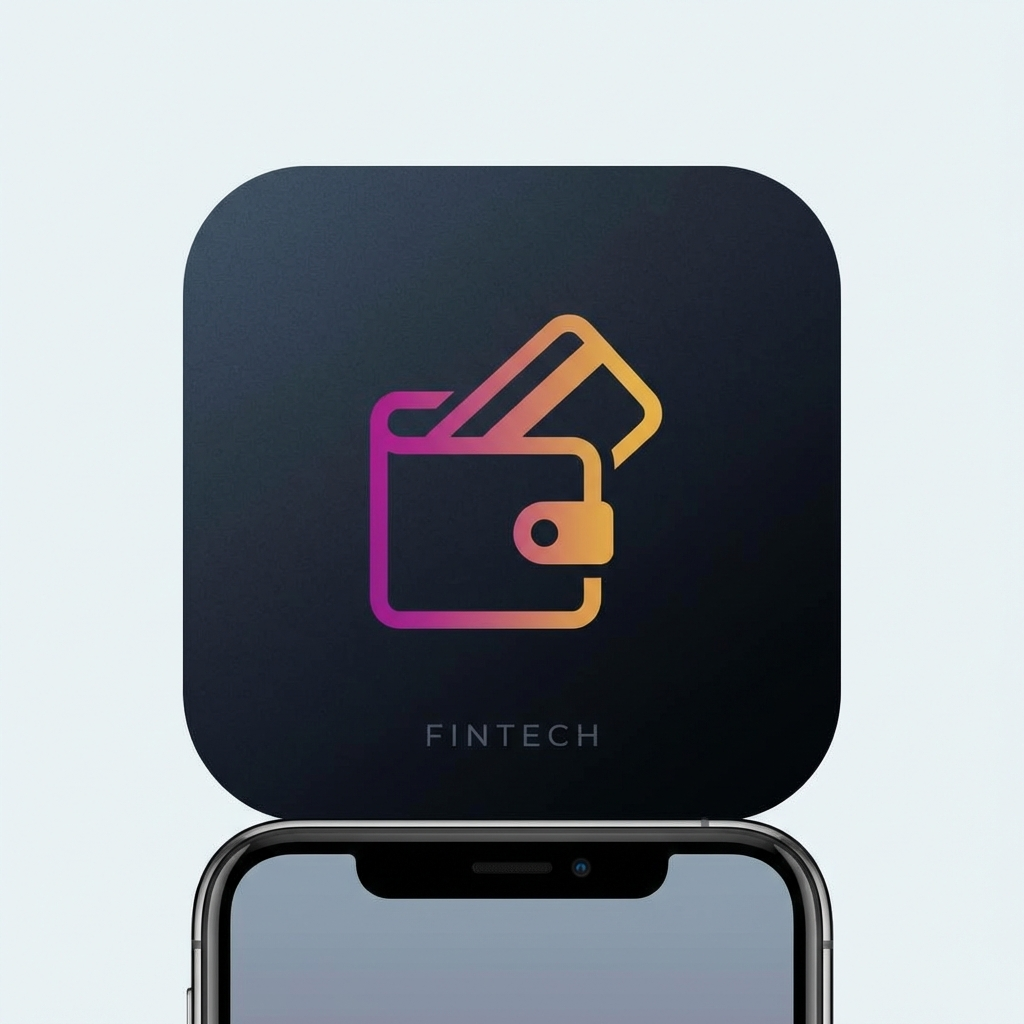
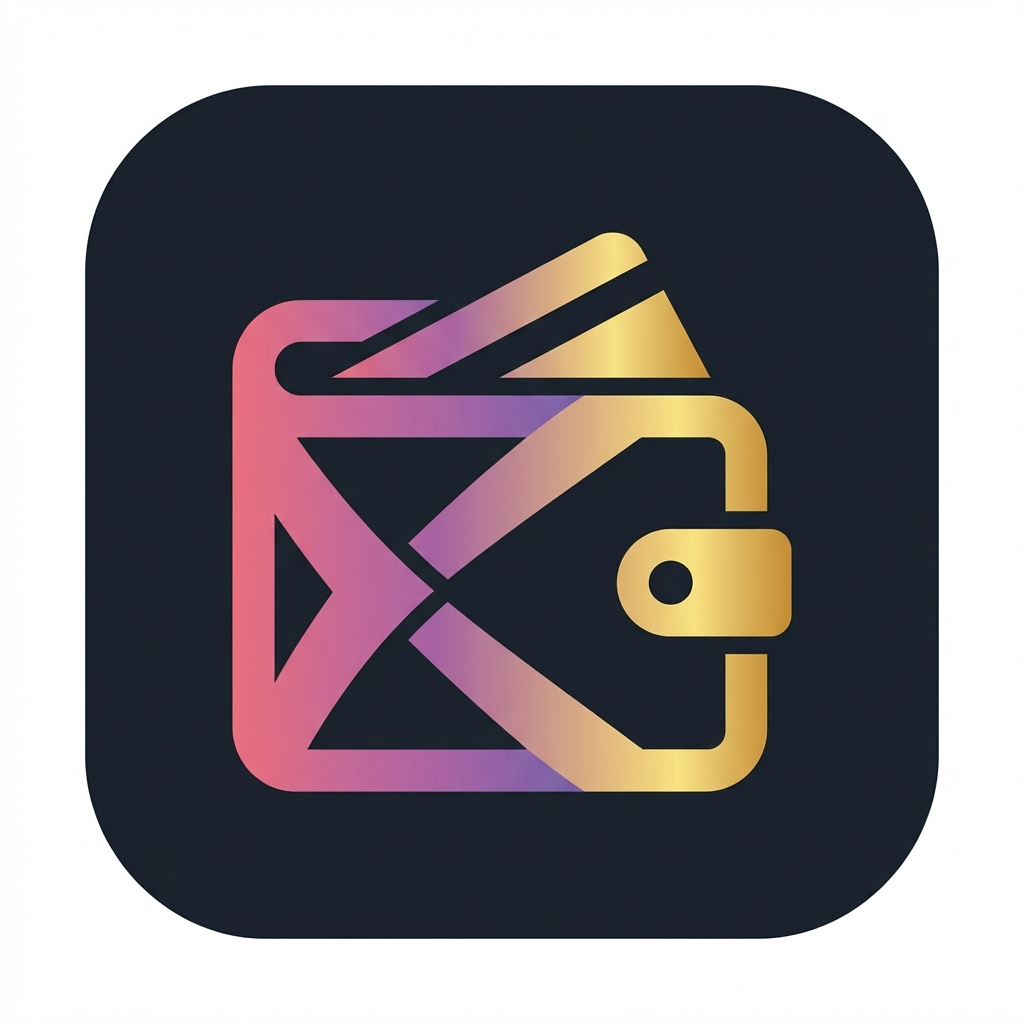
Implement Subscription Manager
- Created subscriptions.html and subscriptions.js
- Added dashboard link to Subscriptions
- Updated app icons to single style (PWA)

diff --git a/subscriptions.js b/subscriptions.js
@@ -1,0 +1,169 @@
+// Subscription Manager Logic
+
+let subscriptions = [];
+const DEFAULT_SUBS = [
+    { id: 1, name: 'Netflix', cost: 649, cycle: 'monthly', date: 5, category: 'Entertainment', icon: 'fa-film', color: '#E50914' },
+    { id: 2, name: 'Spotify', cost: 119, cycle: 'monthly', date: 21, category: 'Entertainment', icon: 'fa-music', color: '#1DB954' },
+    { id: 3, name: 'Amazon Prime', cost: 1499, cycle: 'yearly', date: 15, category: 'Entertainment', icon: 'fa-box', color: '#00A8E1' }
+];
+
+// Load Data
+function loadSubscriptions() {
+    const saved = localStorage.getItem('mySubscriptions');
+    if (saved) {
+        subscriptions = JSON.parse(saved);
+    } else {
+        subscriptions = DEFAULT_SUBS;
+        saveSubscriptions();
+    }
+    renderSubscriptions();
+    updateStats();
+}
+
+// Save Data
+function saveSubscriptions() {
+    localStorage.setItem('mySubscriptions', JSON.stringify(subscriptions));
+    updateStats();
+}
+
+// Format Currency
+const formatMoney = (amount) => {
+    return new Intl.NumberFormat('en-IN', {
+        style: 'currency',
+        currency: 'INR',
+        maximumFractionDigits: 0
+    }).format(amount);
+};
+
+// Update Stats
+function updateStats() {
+    let monthlyTotal = 0;
+    let yearlyTotal = 0;
+
+    subscriptions.forEach(sub => {
+        if (sub.cycle === 'monthly') {
+            monthlyTotal += sub.cost;
+            yearlyTotal += sub.cost * 12;
+        } else {
+            yearlyTotal += sub.cost;
+            monthlyTotal += sub.cost / 12;
+        }
+    });
+
+    document.getElementById('total-monthly').textContent = formatMoney(monthlyTotal);
+    document.getElementById('total-yearly').textContent = formatMoney(yearlyTotal);
+}
+
+// Render List
+function renderSubscriptions() {
+    const container = document.getElementById('subscription-list');
+    container.innerHTML = '';
+
+    // Sort by due date
+    subscriptions.sort((a, b) => a.date - b.date);
+
+    subscriptions.forEach(sub => {
+        const item = document.createElement('div');
+        item.className = 'transaction-item';
+
+        let icon = sub.icon || 'fa-receipt';
+        // Auto-icon logic
+        if (sub.name.toLowerCase().includes('netflix')) icon = 'fa-film';
+        else if (sub.name.toLowerCase().includes('spotify')) icon = 'fa-music';
+        else if (sub.name.toLowerCase().includes('prime') || sub.name.toLowerCase().includes('amazon')) icon = 'fa-box';
+        else if (sub.name.toLowerCase().includes('youtube')) icon = 'fa-play';
+        else if (sub.name.toLowerCase().includes('google')) icon = 'fa-google';
+        else if (sub.name.toLowerCase().includes('apple')) icon = 'fa-apple';
+        else if (sub.name.toLowerCase().includes('chatgpt') || sub.name.toLowerCase().includes('ai')) icon = 'fa-robot';
+
+        item.innerHTML = `
+            <div class="transaction-icon" style="background: rgba(255, 255, 255, 0.05); color: ${sub.color || 'var(--text-primary)'}">
+                <i class="fas ${icon}"></i>
+            </div>
+            <div class="transaction-info">
+                <div class="transaction-title">${sub.name}</div>
+                <div class="transaction-date">${sub.cycle === 'monthly' ? 'Monthly' : 'Yearly'} • Due on ${sub.date}</div>
+            </div>
+            <div class="transaction-amount">
+                ${formatMoney(sub.cost)}
+            </div>
+            <button class="delete-btn" onclick="deleteSubscription(${sub.id})" style="margin-left: 1rem; background: none; border: none; color: var(--text-secondary);"><i class="fas fa-trash"></i></button>
+        `;
+        container.appendChild(item);
+    });
+}
+
+// Add Subscription
+function addSubscription() {
+    const name = document.getElementById('sub-name').value;
+    const cost = parseFloat(document.getElementById('sub-cost').value);
+    const date = parseInt(document.getElementById('sub-date').value);
+    const category = document.getElementById('sub-category').value;
+    const cycleBtn = document.querySelector('.chip.active');
+    const cycle = cycleBtn ? cycleBtn.dataset.value : 'monthly';
+
+    if (!name || isNaN(cost) || isNaN(date)) {
+        alert('Please fill all fields');
+        return;
+    }
+
+    const newSub = {
+        id: Date.now(),
+        name,
+        cost,
+        cycle,
+        date,
+        category,
+        icon: 'fa-receipt', // Default
+        color: '#fff'
+    };
+
+    subscriptions.push(newSub);
+    saveSubscriptions();
+    renderSubscriptions();
+    closeModal();
+}
+
+function deleteSubscription(id) {
+    if (confirm('Delete this subscription?')) {
+        subscriptions = subscriptions.filter(s => s.id !== id);
+        saveSubscriptions();
+        renderSubscriptions();
+    }
+}
+
+// Modal Logic
+const modal = document.getElementById('sub-modal');
+const addBtn = document.getElementById('add-sub-btn');
+const closeBtn = document.getElementById('close-modal');
+const saveBtn = document.getElementById('save-sub-btn');
+
+addBtn.onclick = () => {
+    modal.classList.add('active');
+    document.getElementById('sub-name').focus();
+};
+
+closeBtn.onclick = closeModal;
+
+function closeModal() {
+    modal.classList.remove('active');
+    // Clear inputs
+    document.getElementById('sub-name').value = '';
+    document.getElementById('sub-cost').value = '';
+    document.getElementById('sub-date').value = '';
+}
+
+// Chip Toggle
+document.querySelectorAll('.chip').forEach(chip => {
+    chip.addEventListener('click', () => {
+        document.querySelectorAll('.chip').forEach(c => c.classList.remove('active'));
+        chip.classList.add('active');
+    });
+});
+
+saveBtn.onclick = addSubscription;
+
+// Initialize
+// Make delete global
+window.deleteSubscription = deleteSubscription;
+document.addEventListener('DOMContentLoaded', loadSubscriptions);

diff --git a/subscriptions.html b/subscriptions.html
@@ -1,0 +1,105 @@
+<!DOCTYPE html>
+<html lang="en">
+
+<head>
+    <meta charset="UTF-8">
+    <meta name="viewport" content="width=device-width, initial-scale=1.0, maximum-scale=1.0, user-scalable=no">
+    <title>Subscriptions - Budget Planner</title>
+    <link rel="stylesheet" href="style.css">
+    <link rel="stylesheet" href="https://cdnjs.cloudflare.com/ajax/libs/font-awesome/6.4.0/css/all.min.css">
+    <link rel="manifest" href="manifest.json">
+    <script src="auth.js"></script>
+    <script>
+        if ('serviceWorker' in navigator) {
+            navigator.serviceWorker.register('sw.js');
+        }
+    </script>
+</head>
+
+<body>
+    <div class="container">
+        <!-- Header -->
+        <header>
+            <div class="header-content">
+                <a href="index.html" class="back-btn"><i class="fas fa-arrow-left"></i></a>
+                <h1>Subscriptions</h1>
+                <div class="user-greeting">Recurring</div>
+            </div>
+
+            <!-- Stats -->
+            <div class="dashboard-grid">
+                <div class="stat-card" style="border-color: rgba(99, 102, 241, 0.2);">
+                    <div class="stat-label">Monthly Cost</div>
+                    <div class="stat-value" id="total-monthly">₹0</div>
+                </div>
+                <div class="stat-card" style="border-color: rgba(236, 72, 153, 0.2);">
+                    <div class="stat-label">Yearly Cost</div>
+                    <div class="stat-value" id="total-yearly">₹0</div>
+                </div>
+            </div>
+        </header>
+
+        <!-- Subscription List -->
+        <div class="grocery-section">
+            <div class="section-header">
+                <h2>Active Subscriptions</h2>
+            </div>
+            <div id="subscription-list" class="transaction-list">
+                <!-- Injected via JS -->
+            </div>
+        </div>
+    </div>
+
+    <!-- FAB -->
+    <button class="fab" id="add-sub-btn">
+        <i class="fas fa-plus"></i>
+    </button>
+
+    <!-- Modal -->
+    <div class="modal-overlay" id="sub-modal">
+        <div class="modal">
+            <div class="modal-header">
+                <h3 id="modal-title">Add Subscription</h3>
+                <button class="close-modal" id="close-modal"><i class="fas fa-times"></i></button>
+            </div>
+            <div class="modal-body">
+                <div class="form-group">
+                    <label>Name</label>
+                    <input type="text" id="sub-name" placeholder="Netflix, Spotify...">
+                </div>
+                <div class="form-group">
+                    <label>Cost</label>
+                    <div class="amount-input">
+                        <span class="currency">₹</span>
+                        <input type="number" id="sub-cost" placeholder="0">
+                    </div>
+                </div>
+                <div class="form-group">
+                    <label>Cycle</label>
+                    <div style="display: flex; gap: 1rem;">
+                        <button class="chip active" data-value="monthly">Monthly</button>
+                        <button class="chip" data-value="yearly">Yearly</button>
+                    </div>
+                </div>
+                <div class="form-group">
+                    <label>Due Date (Day of Month)</label>
+                    <input type="number" id="sub-date" min="1" max="31" placeholder="e.g 15">
+                </div>
+                <div class="form-group">
+                    <label>Category</label>
+                    <select id="sub-category">
+                        <option value="Entertainment">Entertainment</option>
+                        <option value="Utilities">Utilities</option>
+                        <option value="Software">Software</option>
+                        <option value="Other">Other</option>
+                    </select>
+                </div>
+            </div>
+            <button class="btn-primary" id="save-sub-btn">Save Subscription</button>
+        </div>
+    </div>
+
+    <script src="subscriptions.js"></script>
+</body>
+
+</html>
